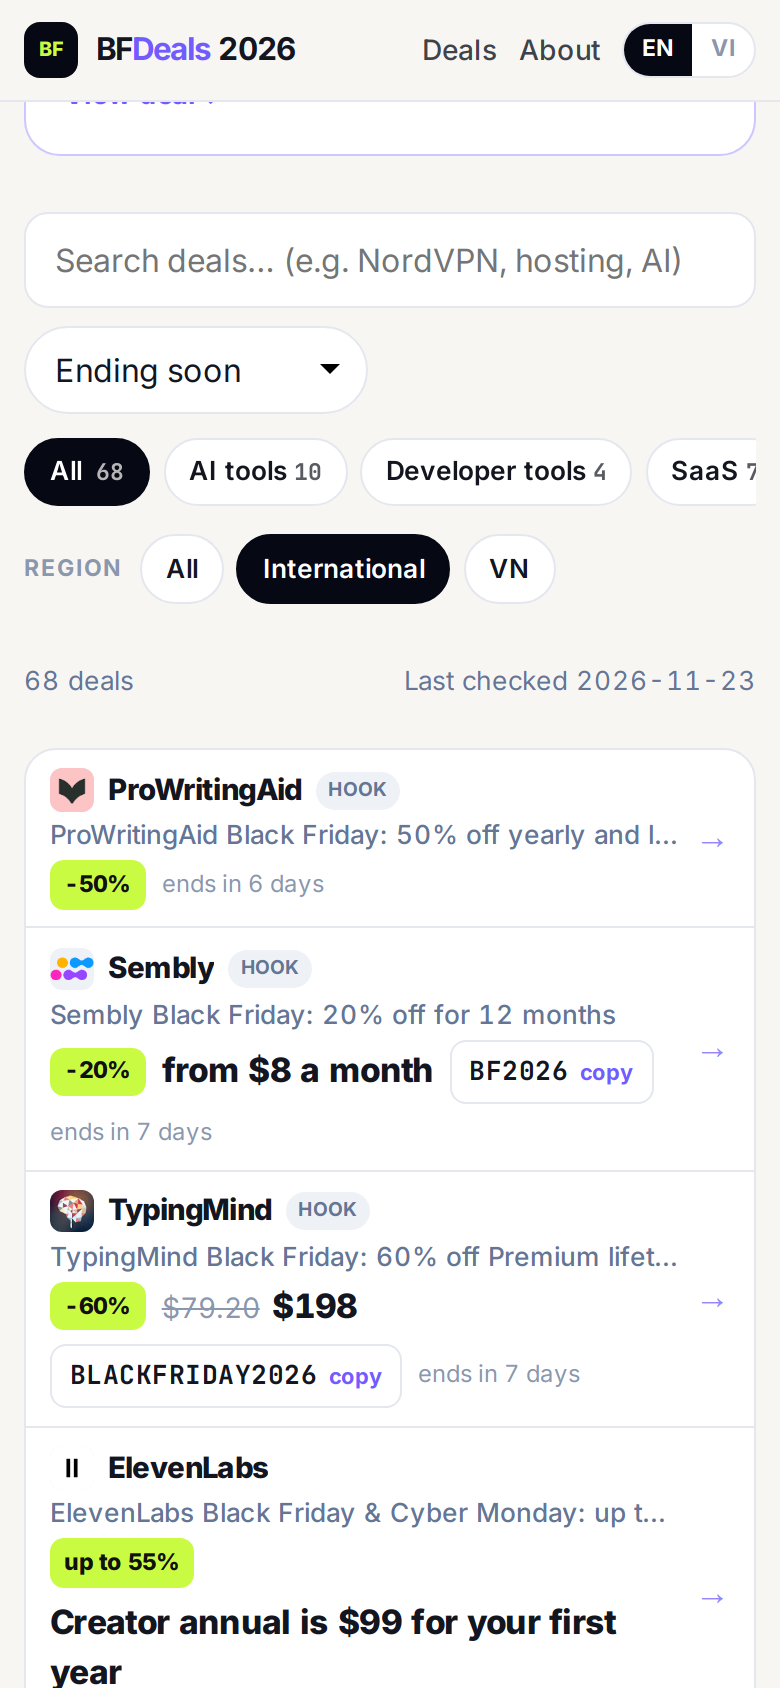
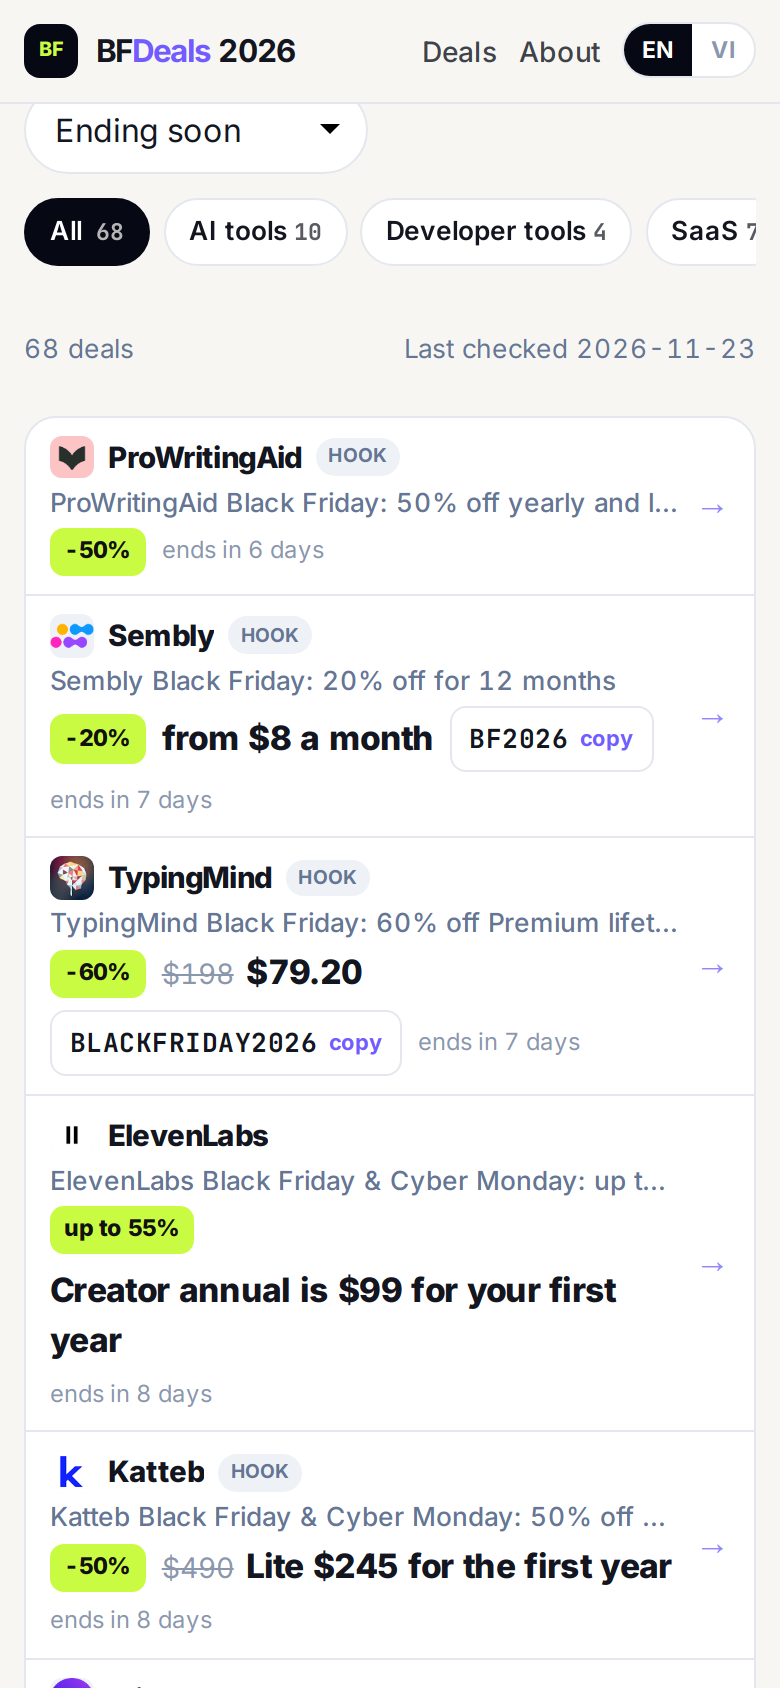
Fix mobile sticky header, hide region filter, correct price strikes
Move the sticky nav above the disclosure so it sits flush at top:0.
Hide the Region/VN filter while VN deals remain hidden. Parse
"sale instead of list" prices and only strikethrough when original
is greater than the sale amount.

diff --git a/src/lib/deals.ts b/src/lib/deals.ts
@@ -318,9 +318,34 @@ export function formatDiscountBadge(discountText: string | null): string | null 
   return upTo ? `up to ${pct}%` : `-${pct}%`;
 }
 
+/** Extract a comparable numeric amount from a money-like token. */
+function moneyValue(token: string): number | null {
+  const m = token.replace(/,/g, '').match(/(\d+(?:\.\d+)?)/);
+  if (!m) return null;
+  const n = Number(m[1]);
+  return Number.isFinite(n) ? n : null;
+}
+
 /**
- * Split a price string into original + current only when both are clearly present.
- * Never invents or computes a missing side.
+ * Only pair original + current for strikethrough when both parse and original > current.
+ * Otherwise return raw (no strikethrough). Never invents prices.
+ */
+function asStrikePair(
+  original: string,
+  current: string,
+  raw: string
+): PriceParts {
+  const ov = moneyValue(original);
+  const cv = moneyValue(current);
+  if (ov !== null && cv !== null && ov > cv) {
+    return { original, current, raw };
+  }
+  return { original: null, current: null, raw };
+}
+
+/**
+ * Split a price string into original + current only when both are clearly present
+ * and original is higher than the sale price. Never invents or computes a missing side.
  */
 export function parsePriceParts(price: string | null): PriceParts {
   if (!price) return { original: null, current: null, raw: null };
@@ -331,26 +356,50 @@ export function parsePriceParts(price: string | null): PriceParts {
     /Original\s+price:\s*([^\n]+?)\s+Current\s+price:\s*([^\n]+)/i
   );
   if (labeled) {
-    return { original: labeled[1].trim(), current: labeled[2].trim(), raw: trimmed };
+    return asStrikePair(labeled[1].trim(), labeled[2].trim(), trimmed);
+  }
+
+  // "$79.20 instead of $198" / "$29 instead of $99" (sale first, list second)
+  const instead = trimmed.match(
+    /^(.+?)\s+instead\s+of\s+(.+)$/i
+  );
+  if (instead) {
+    return asStrikePair(instead[2].trim(), instead[1].trim(), trimmed);
+  }
+
+  // "$79.20 vs $198" when notes/order imply sale vs list — prefer larger as original
+  const vs = trimmed.match(/^(.+?)\s+vs\.?\s+(.+)$/i);
+  if (vs) {
+    const a = vs[1].trim();
+    const b = vs[2].trim();
+    const av = moneyValue(a);
+    const bv = moneyValue(b);
+    if (av !== null && bv !== null) {
+      return av > bv ? asStrikePair(a, b, trimmed) : asStrikePair(b, a, trimmed);
+    }
   }
 
   // "$69 → $29" / "$330 → $132"
   const arrow = trimmed.match(/^(.+?)\s*(?:→|->|—|–)\s*(.+)$/);
   if (arrow) {
-    return { original: arrow[1].trim(), current: arrow[2].trim(), raw: trimmed };
+    return asStrikePair(arrow[1].trim(), arrow[2].trim(), trimmed);
   }
 
-  // Two money-like tokens: "$12.99 $1.99/mo" or "$9.99 $2.99/month"
+  // Two money-like tokens: "$12.99 $1.99/mo" — first list, second sale when first > second
   const money =
     /(?:\$|€|£|₫)?\s?\d[\d,]*(?:\.\d+)?(?:\s*\/\s*(?:mo(?:nth)?|yr|year|1st\s*yr))?/gi;
   const matches = trimmed.match(money);
   if (matches && matches.length >= 2) {
     const first = matches[0].trim();
     const second = matches[1].trim();
-    // Prefer showing full remaining text as current when second is clearly the sale
-    const secondIdx = trimmed.indexOf(second, trimmed.indexOf(first) + first.length);
-    const current = trimmed.slice(secondIdx).trim();
-    return { original: first, current, raw: trimmed };
+    const fv = moneyValue(first);
+    const sv = moneyValue(second);
+    if (fv !== null && sv !== null && fv > sv) {
+      const secondIdx = trimmed.indexOf(second, trimmed.indexOf(first) + first.length);
+      const current = trimmed.slice(secondIdx).trim();
+      return asStrikePair(first, current, trimmed);
+    }
+    // Sale-first phrasing already handled above; don't invent a strike pair
   }
 
   return { original: null, current: null, raw: trimmed };

diff --git a/src/styles/global.css b/src/styles/global.css
@@ -107,6 +107,7 @@ select {
   top: 0;
   z-index: 40;
   isolation: isolate;
+  margin: 0;
   background: var(--paper);
   border-bottom: 1px solid var(--line);
 }
